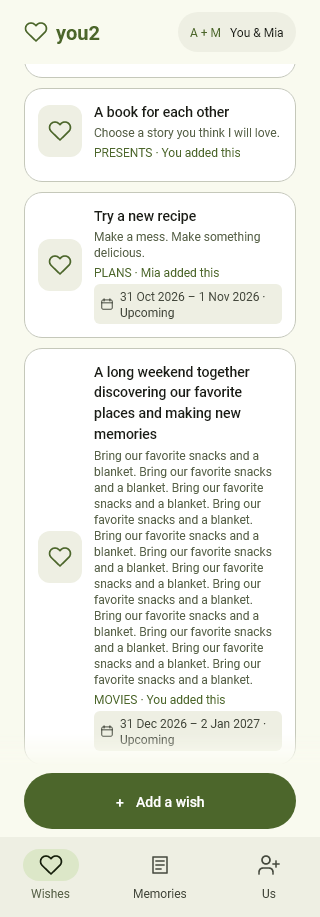
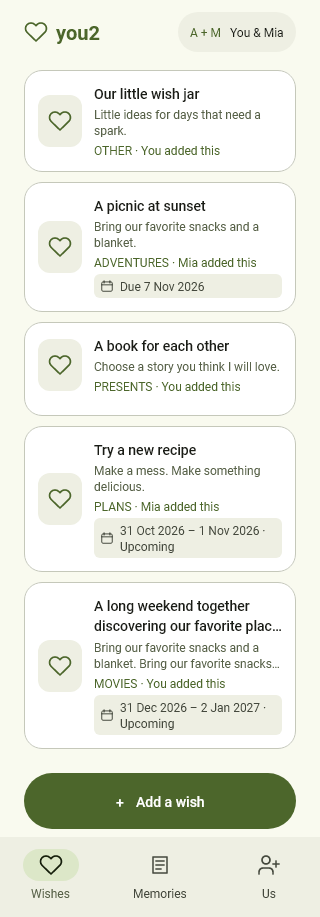
Limit wish card title and description to two lines

diff --git a/core/designsystem/src/commonMain/kotlin/com/alad1nks/you2/feature/designsystem/components/Components.kt b/core/designsystem/src/commonMain/kotlin/com/alad1nks/you2/feature/designsystem/components/Components.kt
@@ -35,6 +35,7 @@ import androidx.compose.ui.draw.clip
 import androidx.compose.ui.graphics.Color
 import androidx.compose.ui.graphics.luminance
 import androidx.compose.ui.layout.ContentScale
+import androidx.compose.ui.text.style.TextOverflow
 import androidx.compose.ui.unit.dp
 import com.alad1nks.you2.feature.designsystem.theme.AppDimensions
 import com.alad1nks.you2.feature.designsystem.theme.AppShapes
@@ -176,12 +177,19 @@ fun WishCard(
                 )
             }
             Column(Modifier.weight(1f), verticalArrangement = Arrangement.spacedBy(AppSpacing.xs)) {
-                Text(title, style = MaterialTheme.typography.labelLarge)
+                Text(
+                    title,
+                    style = MaterialTheme.typography.labelLarge,
+                    maxLines = 2,
+                    overflow = TextOverflow.Ellipsis,
+                )
                 if (description.isNotBlank()) {
                     Text(
                         description,
                         style = MaterialTheme.typography.bodySmall,
                         color = MaterialTheme.colorScheme.secondary,
+                        maxLines = 2,
+                        overflow = TextOverflow.Ellipsis,
                     )
                 }
                 Text(author, style = MaterialTheme.typography.bodySmall, color = MaterialTheme.colorScheme.primary)

diff --git a/docs/paired-user-ui-plan.md b/docs/paired-user-ui-plan.md
@@ -167,7 +167,8 @@ UI получает состояние и обработчики событий;
 Все состояния дат используют текст, цвет и локальную иконку календаря из Figma.
 Даты представлены как `28 Oct 2026`, диапазоны внутри месяца сокращены;
 переходы между месяцами и годами сохраняют обе полные даты. Без даты бейдж скрыт.
-Длинные заголовки, описания и даты переносятся без фиксированной высоты карточек.
+Заголовки и описания карточек ограничены двумя строками с многоточием;
+даты переносятся без фиксированной высоты карточек.
 Шапка, Add a wish и навигация закреплены; фильтр и позиция списка сохраняются
 при возврате из предварительных деталей/формы и при переключении вкладок.
 Затухание над кнопкой скрывается в конце списка, последняя карточка доступна целиком.
